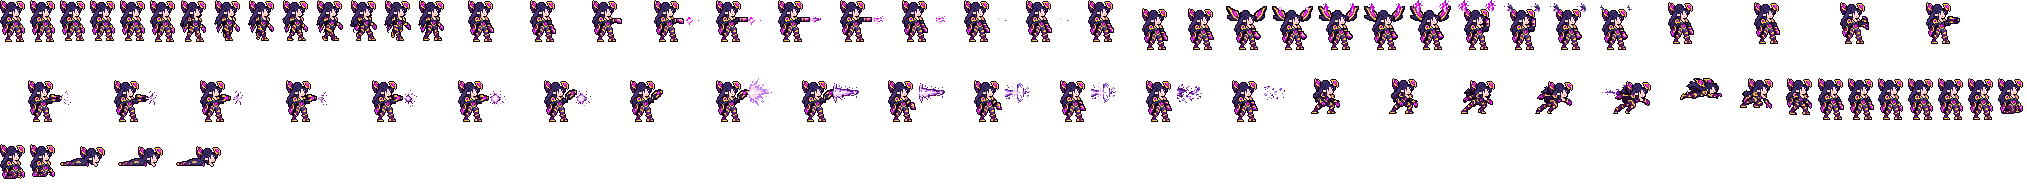
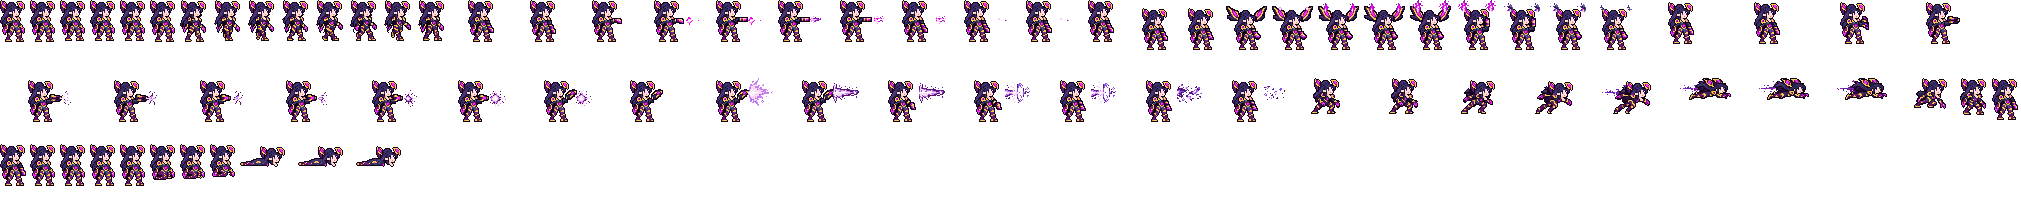
Rakan R, Yone E, Kai'Sa R: baked pictures no longer cut off by the next animation
The 0.49.2 red-side pass drew these into his frames, but the frames that carried them were replaced
by another animation almost at once, so they hardly showed (simulated games, per play):
- league_rakan R start: a copy of "ult" (ult_fx1), replaced within a tick by the R hops' "ult" every
  20 ticks: shown 4% of its length. A CasterViewEffect again (is_follow), on a symmetric sheet.
- league_yone E cast flash: a copy of skill2 started on the same tick as the dash (e_dash): shown 0%.
  Now drawn into a copy of the dash too (e_dash_fx1), so it shows whether or not he dashes.
- league_kaisa R trail: drawn into "ult" at 33 ms, cut when ult_dash starts at 150 ms (39%). Now
  continued into ult_dash at -117 ms.
SKILL.md and red_side_caster_fx.py note the pitfall.

Changed region(s): [[0.0, 0.3665, 1.0, 0.6545], [0.0, 0.0, 0.9975, 0.2618], [0.0, 0.7068, 0.2182, 0.9424]]

diff --git a/tools/fix/red_side_caster_fx.py b/tools/fix/red_side_caster_fx.py
@@ -13,6 +13,9 @@ The client never mirrors a data effect picture (champion-data.md section 6), so 
    the same mirrored). league_garen's Judgment whirl is one too (2026-10-07, 「盖伦大风车没了」): drawn into copies of
    his spin, it vanished whenever a hop's MoveToTarget reached its target and restarted the plain spin, so most casts
    showed no whirl; it is a CasterViewEffect again (is_follow, held while he walks) on a symmetric sheet.
+   league_rakan's R start the same (his R hops restart "ult" every 20 ticks). league_yone's E flash and league_kaisa's
+   R trail stay in his frames: the flash in a copy of the dash that starts on the same tick (e_dash_fx1), the trail
+   continued into ult_dash (yone_bake.json, kaisa_bake.json).
 4. HIT: pictures on a target or point that show where the blow came from (a streak or a chevron pointing on along
    the shot: league_ezreal R, league_riven's Wind Slash, league_yasuo Q and E, league_vayne's bolts) are made symmetric
    too; a slash or crescent across the target reads the same either way and stays.

diff --git a/.claude/skills/tfm2-hero-mod/SKILL.md b/.claude/skills/tfm2-hero-mod/SKILL.md
@@ -100,7 +100,11 @@ empty tooltip). That is why the linter exists - run it after every edit.
   each play, writes `assets/source/native/<hero>_bake.json` and drops the `CasterViewEffect` (or, for a play only
   some casts make, swaps it for a `CasterAnimation` of a copy of the animation with the picture in, ending where that
   animation would have: a `CasterAnimation` keeps the unit from walking), then `tools/art/import_native.py` redraws
-  the sheet. A caster picture that plays while he walks, and a hit that shows where the blow came from, is made
+  the sheet. A picture drawn into his frames shows only until the next animation starts - a CasterViewEffect played
+  on whatever came next: check that nothing restarts his animation while it runs (a MoveToTarget's end_effects, a
+  sibling's dash on the same tick, 2026-10-07 「盖伦大风车没了」): league_garen's E whirl and league_rakan's R start
+  went back to CasterViewEffects on symmetric sheets, league_yone's E flash rides a copy of the dash, league_kaisa's R
+  trail runs on into ult_dash (a negative at_ms starts a picture before the tag). A caster picture that plays while he walks, and a hit that shows where the blow came from, is made
   left-right symmetric (`tools/fix/mirror_union_fx.py`); one that must point at a target rides a projectile (turned
   with it). A figure of the hero left on the ground is drawn from the front (league_ekko's R hologram, from Codex's
   front view `assets/source/red_side/ekko_front.png`). `tools/fix/red_side_caster_fx.py` is the 2026-10-06 pass over the whole pack.
